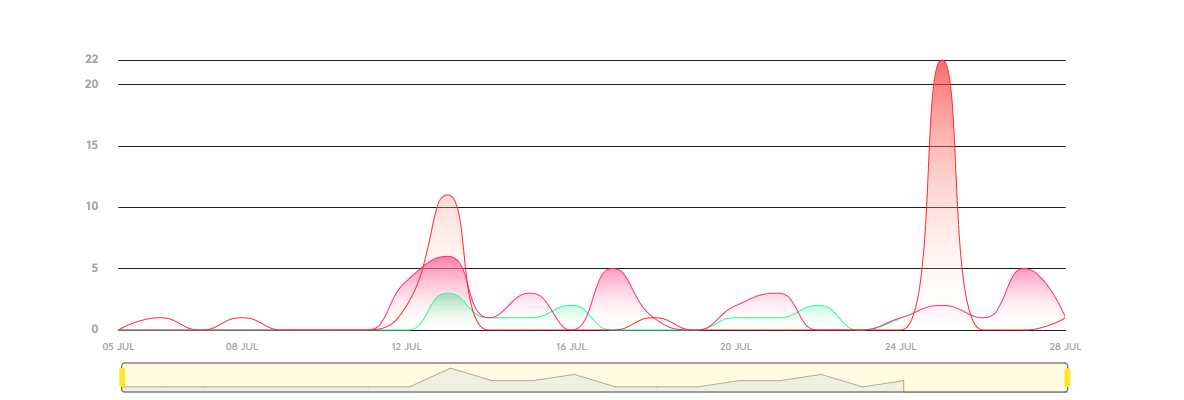
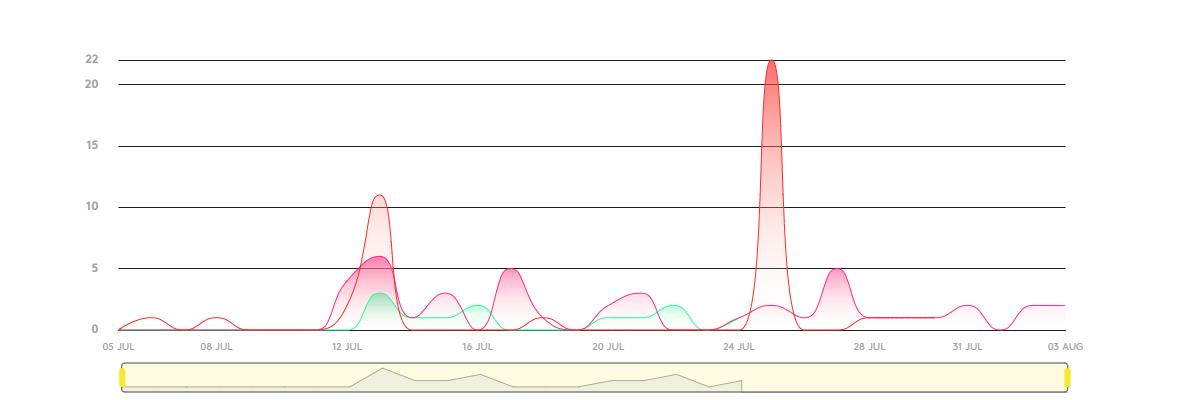
see

diff --git a/Daniel_Bemjamin.html b/Daniel_Bemjamin.html
@@ -3,7 +3,7 @@
 <head>
     <meta charset="UTF-8">
     <meta http-equiv="X-UA-Compatible" content="IE=edge">
-    <meta name="description" content="Official Websit of Thowbias">
+    <meta name="description" content="Official daniel benjamin Website">
     <meta name="viewport" content="width=device-width, initial-scale=1.0">
     <meta name="author" content="Starrise.Com">
     <link rel="stylesheet" href="mycss.css" type="text/css">

diff --git a/Capywhite.html b/Capywhite.html
@@ -3,7 +3,7 @@
 <head>
     <meta charset="UTF-8">
     <meta http-equiv="X-UA-Compatible" content="IE=edge">
-    <meta name="description" content="Official Websit of Thowbias">
+    <meta name="description" content="Official Capywhite Website">
     <meta name="viewport" content="width=device-width, initial-scale=1.0">
     <meta name="author" content="Starrise.Com">
     <link rel="stylesheet" href="mycss.css" type="text/css">

diff --git a/Darkolo.html b/Darkolo.html
@@ -3,7 +3,7 @@
 <head>
     <meta charset="UTF-8">
     <meta http-equiv="X-UA-Compatible" content="IE=edge">
-    <meta name="description" content="Official Websit of Thowbias">
+    <meta name="description" content="Official Darkolo website">
     <meta name="viewport" content="width=device-width, initial-scale=1.0">
     <meta name="author" content="Starrise.Com">
     <link rel="stylesheet" href="mycss.css" type="text/css">

diff --git a/Exception_Tife_praise.html b/Exception_Tife_praise.html
@@ -35,7 +35,9 @@
                 <li style="text-align: center;">
                     <h3>Weekly Update</h3>
                     <div class="Update">
-                        <p>Awaiting Data....</p>
+                        <img src="tifimg/1.png">
+                        <img src="tifimg/2.png">
+                        <img src="tifimg/3.png">
                     </div>
                 </li>
             </ul>

diff --git a/Youngreen.html b/Youngreen.html
@@ -28,7 +28,9 @@
                 <li style="text-align: center;">
                     <h3>Weekly Update</h3>
                     <div class="Update">
-                       <p>Awaiting Data...</p>
+                        <img src="Youimg/1.png">
+                        <img src="Youimg/2.png">
+                        <img src="Youimg/3.png">
                     </div>
                 </li>
             </ul>
